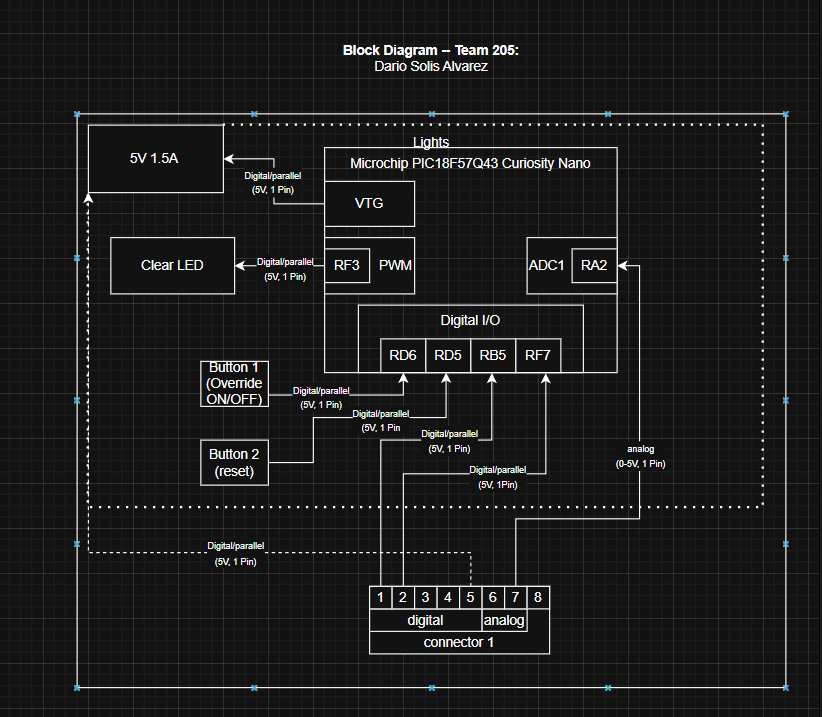
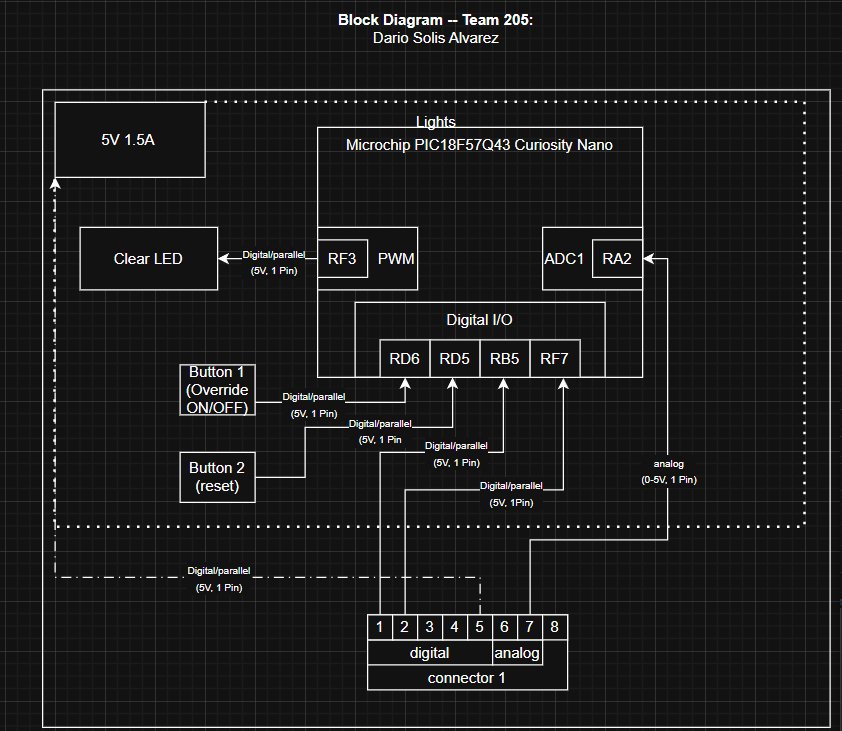
Reupdated block diagram

Changed region(s): [[0.0, 0.0, 1.0, 1.0], [0.365, 0.7057, 0.3954, 0.7364], [0.1521, 0.7057, 0.1825, 0.7364]]

diff --git a/docs/01-Block-Diagram/Block-Diagram.md b/docs/01-Block-Diagram/Block-Diagram.md
@@ -6,7 +6,7 @@ tags:
 ---
 
 ## Overview
-First rendition of the individual block diagram that connects to the rest of Team 205's boards. This board focuses on the lighting the system and the implementation of the Overide On/Off button and a reset. The device is planned to be powered by the 5V VBUS output. This section recieves the already deciphered readings from the motion and sound detectors and had the light behave accordingly.
+Final rendition of the individual block diagram that connects to the rest of Team 205's boards. This board focuses on the lighting the system and the implementation of the Overide On/Off button and a reset. The device is planned to be powered by the 5V coming from the central hub board but has the capabilities to be powered by a barrel jack input. This section recieves the already deciphered readings from the motion and sound detectors and had the light behave accordingly. When it recieves the trigger and checks what the current settings for the lights are and activates for a period of time and at a certan brightness. The overide button effectively leaves the light on until the overide button is presssed again, to which the light goes back to responding to triggers from visual and audio cues.
 
 
 
